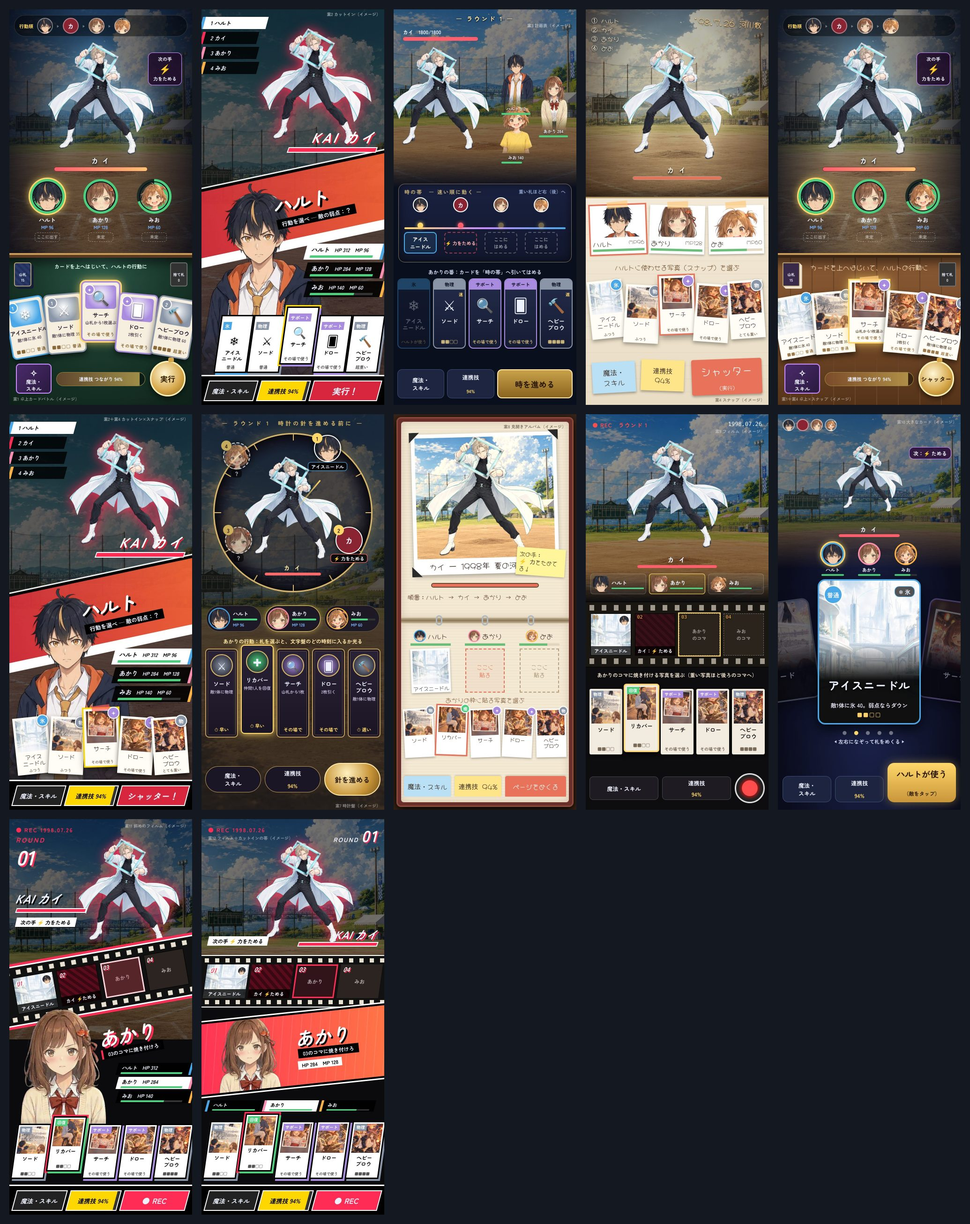
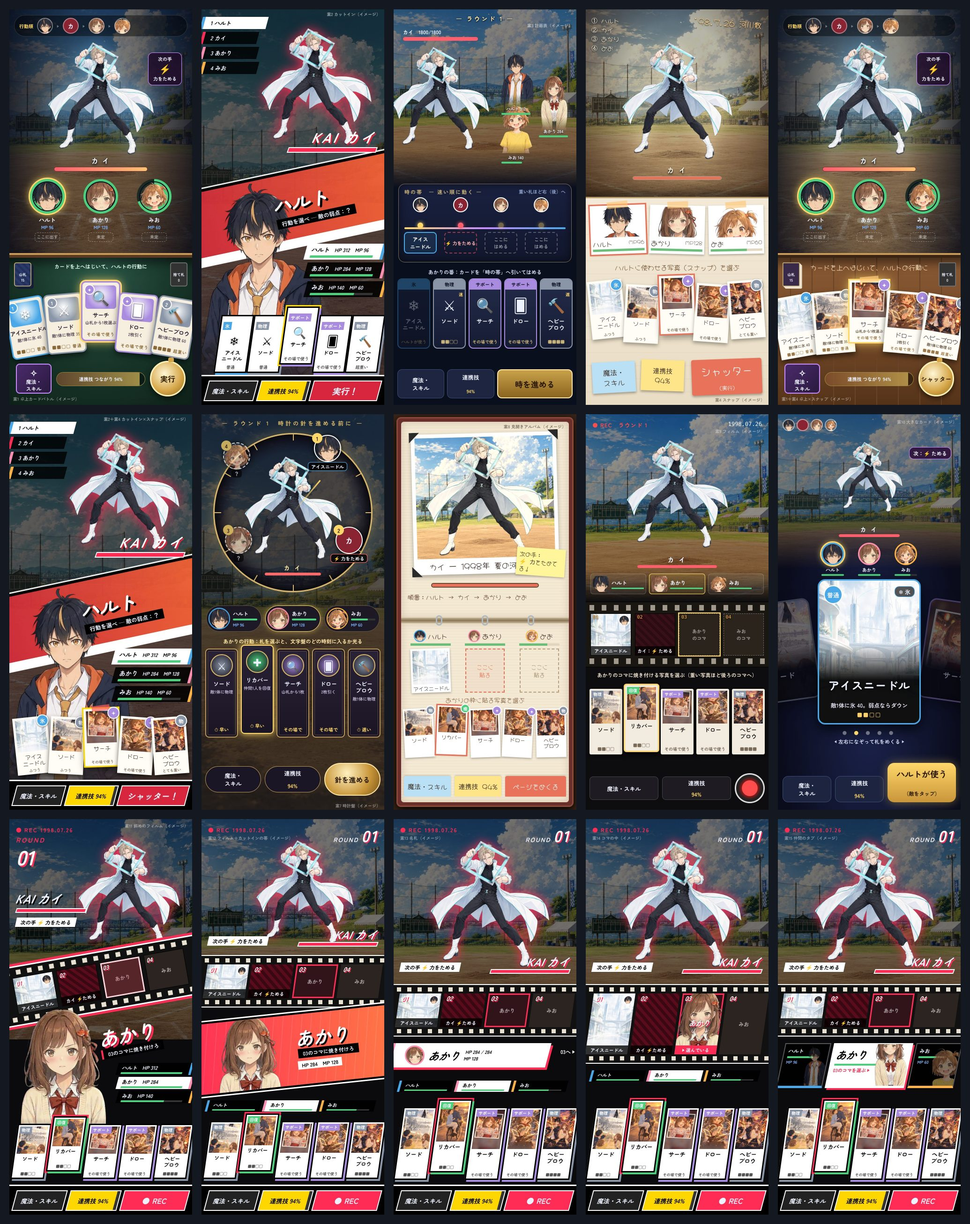
段階101：案12 をもとに、カットインの帯をなくした3案（名札・コマの中・仲間のタブ）を作る
Claude-Session: https://claude.ai/code/session_0153YXzNU9Ck5mPwNRXSpjwj

Changed region(s): [[0.4019, 0.6512, 0.9894, 0.9923]]

diff --git a/docs/sketches/battle_ui/15_film_tabs.html b/docs/sketches/battle_ui/15_film_tabs.html
@@ -1,0 +1,83 @@
+<!doctype html>
+<html lang="ja"><head><meta charset="utf-8"><link rel="stylesheet" href="common.css">
+<style>
+  body { background: #0b0b0e; }
+  .bg { inset: 0 0 auto 0; height: 420px; background: url('../../../public/assets/backgrounds/riverside_1998.webp') center 25% / cover; filter: brightness(.45) contrast(1.15) saturate(.7); }
+  .enemy { left: 70px; top: 26px; width: 270px; height: 310px; background: url('../../../public/assets/enemies/kai.webp') center / contain no-repeat; filter: drop-shadow(0 0 10px #ff2d55); }
+  .rec { left: 14px; top: 14px; font-size: 12px; color: #ff2d55; font-weight: bold; letter-spacing: 2px; } .rec::before { content: '●'; margin-right: 4px; }
+  .round { right: 14px; top: 10px; font-size: 13px; font-weight: 900; font-style: italic; letter-spacing: 2px; }
+  .round b { font-size: 34px; color: #fff; text-shadow: 2px 2px 0 #ff2d55; }
+  .ename { right: 14px; top: 286px; font-size: 24px; font-weight: 900; font-style: italic; transform: skewX(-12deg); text-shadow: 3px 3px 0 #ff2d55; }
+  .ehp { right: 14px; top: 320px; width: 170px; height: 10px; background: #000; border: 2px solid #fff; transform: skewX(-20deg); } .ehp i { display: block; height: 100%; width: 100%; background: #ff2d55; }
+  .intent { left: 14px; top: 306px; font-size: 11px; background: #fff; color: #000; padding: 2px 10px; transform: skewX(-12deg); font-weight: bold; }
+  /* 横のフィルム */
+  .film { left: 0; right: 0; top: 352px; height: 112px; background: #111; border-top: 2px solid #fff; border-bottom: 2px solid #fff; }
+  .holes { position: absolute; left: 0; right: 0; height: 9px; background: repeating-linear-gradient(90deg, transparent 0 7px, #e8e0d0 7px 16px, transparent 16px 22px); }
+  .holes.t { top: 5px; } .holes.bt { bottom: 5px; }
+  .frames { position: absolute; left: 8px; right: 8px; top: 18px; bottom: 18px; display: flex; gap: 6px; }
+  .fr { flex: 1; background: #2b2420; position: relative; overflow: hidden; transform: skewX(-8deg); }
+  .fr .ph { position: absolute; inset: 0; background-size: cover; background-position: center; }
+  .fr .lb { position: absolute; left: 0; right: 0; bottom: 0; background: #000c; font-size: 10px; text-align: center; padding: 2px 0; font-weight: bold; }
+  .fr .n { position: absolute; left: 6px; top: 0; font-size: 14px; font-weight: 900; font-style: italic; color: #fff; text-shadow: 2px 2px 0 #ff2d55; }
+  .fr .who { position: absolute; right: 4px; top: 4px; width: 20px; height: 20px; border-radius: 50%; background-size: 230%; background-position: 50% 10%; border: 2px solid #fff; }
+  .fr.foe .ph { background: repeating-linear-gradient(45deg, #5a0c1c 0 6px, #3a0812 6px 12px); }
+  .fr.now { box-shadow: inset 0 0 0 3px #ff2d55; background: #ff2d5522; }
+  .fr.empty { display: grid; place-items: center; font-size: 11px; font-weight: bold; color: #fff9; }
+  /* 斜めの帯の中のカットイン */
+  .party { left: 6px; right: 6px; top: 478px; height: 96px; display: flex; gap: 6px; }
+  .tab { flex: 1; transform: skewX(-12deg); background: #000d; border: 2px solid #ffffff55; border-bottom: 5px solid var(--c); position: relative; overflow: hidden; padding: 6px 8px; font-size: 11px; font-weight: bold; }
+  .tab .f { position: absolute; right: -4px; bottom: 0; width: 56px; height: 84px; background-size: cover; background-position: 50% 0; transform: skewX(12deg); opacity: .5; }
+  .tab .bar { height: 4px; background: #333; margin-top: 4px; width: 70%; } .tab .bar i { display: block; height: 100%; background: #4cd07d; }
+  .tab .mp { font-size: 9px; color: #7fb6ff; margin-top: 2px; }
+  .tab.on { flex: 1.9; background: #fff; color: #000; border-color: #fff; box-shadow: 4px 4px 0 #ff2d55; }
+  .tab.on .f { width: 96px; height: 120px; right: -6px; opacity: 1; }
+  .tab.on .nm { font-size: 22px; font-style: italic; font-weight: 900; }
+  .tab.on .go { font-size: 10px; color: #ff2d55; margin-top: 2px; }
+  .pa { width: 116px; height: 24px; transform: skewX(-15deg); background: #000d; border-left: 5px solid var(--c); padding: 2px 10px; font-size: 10px; font-weight: bold; }
+  .pa .bar { height: 3px; margin-top: 2px; background: #333; } .pa .bar i { display: block; height: 100%; background: #4cd07d; width: var(--hp); }
+  .pa.on { background: #fff; color: #000; }
+  /* 手札 */
+  .hand { left: 6px; right: 6px; top: 588px; height: 182px; }
+  .card { position: absolute; bottom: 0; width: 72px; height: 156px; background: #fff; color: #000; border: 3px solid #000; box-shadow: 4px 4px 0 var(--c); transform: skewX(-8deg); padding: 3px; }
+  .card .ph { height: 84px; background-size: cover; background-position: center; }
+  .card .el { position: absolute; left: 3px; top: 3px; font-size: 9px; color: #fff; background: var(--c); padding: 1px 4px; font-weight: bold; }
+  .card .nm { font-size: 12px; font-weight: 900; text-align: center; margin-top: 4px; line-height: 1.15; }
+  .card .wt { position: absolute; bottom: 3px; left: 0; right: 0; font-size: 8px; text-align: center; color: #555; }
+  .card.sel { bottom: 16px; box-shadow: 4px 4px 0 var(--c), 0 0 0 3px #ff2d55; }
+  .cmd { left: 0; right: 0; bottom: 0; height: 64px; background: #000; display: flex; align-items: center; gap: 6px; padding: 0 10px; border-top: 3px solid #fff; }
+  .btn { flex: 1; height: 44px; transform: skewX(-15deg); background: #222; border: 2px solid #fff; font-size: 13px; font-weight: bold; display: flex; align-items: center; justify-content: center; }
+  .btn.go { flex: 1.3; background: #ff2d55; font-size: 16px; }
+  .btn.go::before { content: '●'; margin-right: 6px; }
+  .btn.link { background: linear-gradient(90deg, #ffd700 94%, #333 94%); color: #000; }
+  .tag { left: 14px; top: 34px; font-size: 9px; color: #fff7; }
+</style></head><body>
+<div class="abs bg"></div>
+<div class="abs enemy"></div>
+<div class="abs rec">REC 1998.07.26</div>
+<div class="abs round">ROUND <b>01</b></div>
+<div class="abs intent">次の手 ⚡ 力をためる</div>
+<div class="abs ename">KAI カイ</div>
+<div class="abs ehp"><i></i></div>
+<div class="abs film"><div class="holes t"></div><div class="holes bt"></div>
+  <div class="frames">
+    <div class="fr"><div class="ph" style="background-image:url('../../../public/assets/cg/white_city.webp')"></div><span class="n">01</span><span class="who" style="background-image:url('../../../public/assets/portraits/hero_determined.webp')"></span><div class="lb">アイスニードル</div></div>
+    <div class="fr foe"><div class="ph"></div><span class="n">02</span><div class="lb">カイ ⚡ためる</div></div>
+    <div class="fr empty now"><span class="n">03</span>あかり</div>
+    <div class="fr empty"><span class="n">04</span>みお</div>
+  </div>
+</div>
+<div class="abs party">
+  <div class="tab" style="--c:#4aa8e8"><div class="f" style="background-image:url('../../../public/assets/portraits/hero_determined.webp')"></div>ハルト<div class="bar"><i style="width:100%"></i></div><div class="mp">MP 96</div></div>
+  <div class="tab on" style="--c:#ff8fb1"><div class="f" style="background-image:url('../../../public/assets/portraits/akari_serious.webp')"></div><div class="nm">あかり</div><div class="bar"><i style="width:100%"></i></div><div class="go">03のコマを選ぶ ▶</div></div>
+  <div class="tab" style="--c:#ffb347"><div class="f" style="background-image:url('../../../public/assets/portraits/mio_smile.webp');background-size:150%;background-position:50% 10%"></div>みお<div class="bar"><i style="width:70%"></i></div><div class="mp">MP 60</div></div>
+</div>
+<div class="abs hand">
+  <div class="card" style="--c:#8a96a8;left:4px"><div class="ph" style="background-image:url('../../../public/assets/cg/cut_ground.webp')"></div><span class="el">物理</span><div class="nm">ソード</div><div class="wt">■■□□</div></div>
+  <div class="card sel" style="--c:#4cd07d;left:80px"><div class="ph" style="background-image:url('../../../public/assets/cg/tandem_bicycle.webp')"></div><span class="el">回復</span><div class="nm">リカバー</div><div class="wt">■■□□</div></div>
+  <div class="card" style="--c:#a98be0;left:156px"><div class="ph" style="background-image:url('../../../public/assets/cg/photo_goldfish.webp')"></div><span class="el">サポート</span><div class="nm">サーチ</div><div class="wt">その場で使う</div></div>
+  <div class="card" style="--c:#a98be0;left:232px"><div class="ph" style="background-image:url('../../../public/assets/cg/mio_cards.webp')"></div><span class="el">サポート</span><div class="nm">ドロー</div><div class="wt">その場で使う</div></div>
+  <div class="card" style="--c:#8a96a8;left:308px"><div class="ph" style="background-image:url('../../../public/assets/cg/awaken_weapons.webp')"></div><span class="el">物理</span><div class="nm">ヘビー<br>ブロウ</div><div class="wt">■■■■</div></div>
+</div>
+<div class="abs cmd"><div class="btn">魔法・スキル</div><div class="btn link">連携技 94%</div><div class="btn go">REC</div></div>
+<div class="abs tag">案15 仲間のタブ（イメージ）</div>
+</body></html>

diff --git a/docs/sketches/battle_ui/13_film_plate.html b/docs/sketches/battle_ui/13_film_plate.html
@@ -1,0 +1,81 @@
+<!doctype html>
+<html lang="ja"><head><meta charset="utf-8"><link rel="stylesheet" href="common.css">
+<style>
+  body { background: #0b0b0e; }
+  .bg { inset: 0 0 auto 0; height: 420px; background: url('../../../public/assets/backgrounds/riverside_1998.webp') center 25% / cover; filter: brightness(.45) contrast(1.15) saturate(.7); }
+  .enemy { left: 70px; top: 26px; width: 270px; height: 310px; background: url('../../../public/assets/enemies/kai.webp') center / contain no-repeat; filter: drop-shadow(0 0 10px #ff2d55); }
+  .rec { left: 14px; top: 14px; font-size: 12px; color: #ff2d55; font-weight: bold; letter-spacing: 2px; } .rec::before { content: '●'; margin-right: 4px; }
+  .round { right: 14px; top: 10px; font-size: 13px; font-weight: 900; font-style: italic; letter-spacing: 2px; }
+  .round b { font-size: 34px; color: #fff; text-shadow: 2px 2px 0 #ff2d55; }
+  .ename { right: 14px; top: 286px; font-size: 24px; font-weight: 900; font-style: italic; transform: skewX(-12deg); text-shadow: 3px 3px 0 #ff2d55; }
+  .ehp { right: 14px; top: 320px; width: 170px; height: 10px; background: #000; border: 2px solid #fff; transform: skewX(-20deg); } .ehp i { display: block; height: 100%; width: 100%; background: #ff2d55; }
+  .intent { left: 14px; top: 306px; font-size: 11px; background: #fff; color: #000; padding: 2px 10px; transform: skewX(-12deg); font-weight: bold; }
+  /* 横のフィルム */
+  .film { left: 0; right: 0; top: 352px; height: 112px; background: #111; border-top: 2px solid #fff; border-bottom: 2px solid #fff; }
+  .holes { position: absolute; left: 0; right: 0; height: 9px; background: repeating-linear-gradient(90deg, transparent 0 7px, #e8e0d0 7px 16px, transparent 16px 22px); }
+  .holes.t { top: 5px; } .holes.bt { bottom: 5px; }
+  .frames { position: absolute; left: 8px; right: 8px; top: 18px; bottom: 18px; display: flex; gap: 6px; }
+  .fr { flex: 1; background: #2b2420; position: relative; overflow: hidden; transform: skewX(-8deg); }
+  .fr .ph { position: absolute; inset: 0; background-size: cover; background-position: center; }
+  .fr .lb { position: absolute; left: 0; right: 0; bottom: 0; background: #000c; font-size: 10px; text-align: center; padding: 2px 0; font-weight: bold; }
+  .fr .n { position: absolute; left: 6px; top: 0; font-size: 14px; font-weight: 900; font-style: italic; color: #fff; text-shadow: 2px 2px 0 #ff2d55; }
+  .fr .who { position: absolute; right: 4px; top: 4px; width: 20px; height: 20px; border-radius: 50%; background-size: 230%; background-position: 50% 10%; border: 2px solid #fff; }
+  .fr.foe .ph { background: repeating-linear-gradient(45deg, #5a0c1c 0 6px, #3a0812 6px 12px); }
+  .fr.now { box-shadow: inset 0 0 0 3px #ff2d55; background: #ff2d5522; }
+  .fr.empty { display: grid; place-items: center; font-size: 11px; font-weight: bold; color: #fff9; }
+  /* 斜めの帯の中のカットイン */
+  .party { left: 10px; top: 558px; display: flex; gap: 6px; }
+  .plate { left: -10px; right: 60px; top: 478px; height: 52px; background: #fff; color: #000; transform: skewX(-15deg); border-left: 8px solid #ff8fb1; box-shadow: 5px 5px 0 #ff2d55; display: flex; align-items: center; gap: 10px; padding-left: 26px; }
+  .plate .f { width: 42px; height: 42px; border-radius: 50%; background: url('../../../public/assets/portraits/akari_serious.webp') 50% 10% / 230%; border: 3px solid #ff8fb1; transform: skewX(15deg); flex: none; }
+  .plate .nm { font-size: 22px; font-weight: 900; font-style: italic; }
+  .plate .st { font-size: 10px; font-weight: bold; line-height: 1.4; }
+  .plate .go { position: absolute; right: -54px; top: 10px; transform: skewX(15deg); font-size: 11px; color: #fff; font-weight: bold; }
+  .pa { width: 116px; height: 24px; transform: skewX(-15deg); background: #000d; border-left: 5px solid var(--c); padding: 2px 10px; font-size: 10px; font-weight: bold; }
+  .pa .bar { height: 3px; margin-top: 2px; background: #333; } .pa .bar i { display: block; height: 100%; background: #4cd07d; width: var(--hp); }
+  .pa.on { background: #fff; color: #000; }
+  /* 手札 */
+  .hand { left: 6px; right: 6px; top: 588px; height: 182px; }
+  .card { position: absolute; bottom: 0; width: 72px; height: 156px; background: #fff; color: #000; border: 3px solid #000; box-shadow: 4px 4px 0 var(--c); transform: skewX(-8deg); padding: 3px; }
+  .card .ph { height: 84px; background-size: cover; background-position: center; }
+  .card .el { position: absolute; left: 3px; top: 3px; font-size: 9px; color: #fff; background: var(--c); padding: 1px 4px; font-weight: bold; }
+  .card .nm { font-size: 12px; font-weight: 900; text-align: center; margin-top: 4px; line-height: 1.15; }
+  .card .wt { position: absolute; bottom: 3px; left: 0; right: 0; font-size: 8px; text-align: center; color: #555; }
+  .card.sel { bottom: 16px; box-shadow: 4px 4px 0 var(--c), 0 0 0 3px #ff2d55; }
+  .cmd { left: 0; right: 0; bottom: 0; height: 64px; background: #000; display: flex; align-items: center; gap: 6px; padding: 0 10px; border-top: 3px solid #fff; }
+  .btn { flex: 1; height: 44px; transform: skewX(-15deg); background: #222; border: 2px solid #fff; font-size: 13px; font-weight: bold; display: flex; align-items: center; justify-content: center; }
+  .btn.go { flex: 1.3; background: #ff2d55; font-size: 16px; }
+  .btn.go::before { content: '●'; margin-right: 6px; }
+  .btn.link { background: linear-gradient(90deg, #ffd700 94%, #333 94%); color: #000; }
+  .tag { left: 14px; top: 34px; font-size: 9px; color: #fff7; }
+</style></head><body>
+<div class="abs bg"></div>
+<div class="abs enemy"></div>
+<div class="abs rec">REC 1998.07.26</div>
+<div class="abs round">ROUND <b>01</b></div>
+<div class="abs intent">次の手 ⚡ 力をためる</div>
+<div class="abs ename">KAI カイ</div>
+<div class="abs ehp"><i></i></div>
+<div class="abs film"><div class="holes t"></div><div class="holes bt"></div>
+  <div class="frames">
+    <div class="fr"><div class="ph" style="background-image:url('../../../public/assets/cg/white_city.webp')"></div><span class="n">01</span><span class="who" style="background-image:url('../../../public/assets/portraits/hero_determined.webp')"></span><div class="lb">アイスニードル</div></div>
+    <div class="fr foe"><div class="ph"></div><span class="n">02</span><div class="lb">カイ ⚡ためる</div></div>
+    <div class="fr empty now"><span class="n">03</span>あかり</div>
+    <div class="fr empty"><span class="n">04</span>みお</div>
+  </div>
+</div>
+<div class="abs plate"><div class="f"></div><div class="nm">あかり</div><div class="st">HP 284 / 284<br>MP 128</div><span class="go">03へ ▶</span></div>
+<div class="abs party">
+  <div class="pa" style="--c:#4aa8e8;--hp:100%">ハルト<div class="bar"><i></i></div></div>
+  <div class="pa on" style="--c:#ff8fb1;--hp:100%">あかり<div class="bar"><i></i></div></div>
+  <div class="pa" style="--c:#ffb347;--hp:70%">みお<div class="bar"><i></i></div></div>
+</div>
+<div class="abs hand">
+  <div class="card" style="--c:#8a96a8;left:4px"><div class="ph" style="background-image:url('../../../public/assets/cg/cut_ground.webp')"></div><span class="el">物理</span><div class="nm">ソード</div><div class="wt">■■□□</div></div>
+  <div class="card sel" style="--c:#4cd07d;left:80px"><div class="ph" style="background-image:url('../../../public/assets/cg/tandem_bicycle.webp')"></div><span class="el">回復</span><div class="nm">リカバー</div><div class="wt">■■□□</div></div>
+  <div class="card" style="--c:#a98be0;left:156px"><div class="ph" style="background-image:url('../../../public/assets/cg/photo_goldfish.webp')"></div><span class="el">サポート</span><div class="nm">サーチ</div><div class="wt">その場で使う</div></div>
+  <div class="card" style="--c:#a98be0;left:232px"><div class="ph" style="background-image:url('../../../public/assets/cg/mio_cards.webp')"></div><span class="el">サポート</span><div class="nm">ドロー</div><div class="wt">その場で使う</div></div>
+  <div class="card" style="--c:#8a96a8;left:308px"><div class="ph" style="background-image:url('../../../public/assets/cg/awaken_weapons.webp')"></div><span class="el">物理</span><div class="nm">ヘビー<br>ブロウ</div><div class="wt">■■■■</div></div>
+</div>
+<div class="abs cmd"><div class="btn">魔法・スキル</div><div class="btn link">連携技 94%</div><div class="btn go">REC</div></div>
+<div class="abs tag">案13 名札（イメージ）</div>
+</body></html>

diff --git a/docs/sketches/battle_ui/14_film_frame.html b/docs/sketches/battle_ui/14_film_frame.html
@@ -1,0 +1,78 @@
+<!doctype html>
+<html lang="ja"><head><meta charset="utf-8"><link rel="stylesheet" href="common.css">
+<style>
+  body { background: #0b0b0e; }
+  .bg { inset: 0 0 auto 0; height: 420px; background: url('../../../public/assets/backgrounds/riverside_1998.webp') center 25% / cover; filter: brightness(.45) contrast(1.15) saturate(.7); }
+  .enemy { left: 70px; top: 26px; width: 270px; height: 310px; background: url('../../../public/assets/enemies/kai.webp') center / contain no-repeat; filter: drop-shadow(0 0 10px #ff2d55); }
+  .rec { left: 14px; top: 14px; font-size: 12px; color: #ff2d55; font-weight: bold; letter-spacing: 2px; } .rec::before { content: '●'; margin-right: 4px; }
+  .round { right: 14px; top: 10px; font-size: 13px; font-weight: 900; font-style: italic; letter-spacing: 2px; }
+  .round b { font-size: 34px; color: #fff; text-shadow: 2px 2px 0 #ff2d55; }
+  .ename { right: 14px; top: 286px; font-size: 24px; font-weight: 900; font-style: italic; transform: skewX(-12deg); text-shadow: 3px 3px 0 #ff2d55; }
+  .ehp { right: 14px; top: 320px; width: 170px; height: 10px; background: #000; border: 2px solid #fff; transform: skewX(-20deg); } .ehp i { display: block; height: 100%; width: 100%; background: #ff2d55; }
+  .intent { left: 14px; top: 306px; font-size: 11px; background: #fff; color: #000; padding: 2px 10px; transform: skewX(-12deg); font-weight: bold; }
+  /* 横のフィルム */
+  .film { left: 0; right: 0; top: 352px; height: 170px; background: #111; border-top: 2px solid #fff; border-bottom: 2px solid #fff; }
+  .holes { position: absolute; left: 0; right: 0; height: 9px; background: repeating-linear-gradient(90deg, transparent 0 7px, #e8e0d0 7px 16px, transparent 16px 22px); }
+  .holes.t { top: 5px; } .holes.bt { bottom: 5px; }
+  .frames { position: absolute; left: 8px; right: 8px; top: 18px; bottom: 18px; display: flex; gap: 6px; }
+  .fr { flex: 1; background: #2b2420; position: relative; overflow: hidden; transform: skewX(-8deg); }
+  .fr .ph { position: absolute; inset: 0; background-size: cover; background-position: center; }
+  .fr .lb { position: absolute; left: 0; right: 0; bottom: 0; background: #000c; font-size: 10px; text-align: center; padding: 2px 0; font-weight: bold; }
+  .fr .n { position: absolute; left: 6px; top: 0; font-size: 14px; font-weight: 900; font-style: italic; color: #fff; text-shadow: 2px 2px 0 #ff2d55; }
+  .fr .who { position: absolute; right: 4px; top: 4px; width: 20px; height: 20px; border-radius: 50%; background-size: 230%; background-position: 50% 10%; border: 2px solid #fff; }
+  .fr.foe .ph { background: repeating-linear-gradient(45deg, #5a0c1c 0 6px, #3a0812 6px 12px); }
+  .fr.now { box-shadow: inset 0 0 0 3px #ff2d55; background: #ff2d5522; }
+  .fr.empty { display: grid; place-items: center; font-size: 11px; font-weight: bold; color: #fff9; }
+  /* 斜めの帯の中のカットイン */
+  .party { left: 10px; top: 536px; display: flex; gap: 6px; }
+  .fr .face { position: absolute; inset: 0; background: url('../../../public/assets/portraits/akari_serious.webp') 50% 12% / 170%; }
+  .fr .sel { position: absolute; left: 0; right: 0; top: 40%; text-align: center; font-size: 15px; font-weight: 900; font-style: italic; color: #fff; text-shadow: 2px 2px 0 #ff2d55, 0 0 6px #000; }
+  .fr .hpm { position: absolute; left: 0; right: 0; bottom: 0; background: #ff2d55; font-size: 10px; text-align: center; font-weight: bold; padding: 2px 0; }
+  .pa { width: 116px; height: 24px; transform: skewX(-15deg); background: #000d; border-left: 5px solid var(--c); padding: 2px 10px; font-size: 10px; font-weight: bold; }
+  .pa .bar { height: 3px; margin-top: 2px; background: #333; } .pa .bar i { display: block; height: 100%; background: #4cd07d; width: var(--hp); }
+  .pa.on { background: #fff; color: #000; }
+  /* 手札 */
+  .hand { left: 6px; right: 6px; top: 594px; height: 176px; }
+  .card { position: absolute; bottom: 0; width: 72px; height: 156px; background: #fff; color: #000; border: 3px solid #000; box-shadow: 4px 4px 0 var(--c); transform: skewX(-8deg); padding: 3px; }
+  .card .ph { height: 84px; background-size: cover; background-position: center; }
+  .card .el { position: absolute; left: 3px; top: 3px; font-size: 9px; color: #fff; background: var(--c); padding: 1px 4px; font-weight: bold; }
+  .card .nm { font-size: 12px; font-weight: 900; text-align: center; margin-top: 4px; line-height: 1.15; }
+  .card .wt { position: absolute; bottom: 3px; left: 0; right: 0; font-size: 8px; text-align: center; color: #555; }
+  .card.sel { bottom: 16px; box-shadow: 4px 4px 0 var(--c), 0 0 0 3px #ff2d55; }
+  .cmd { left: 0; right: 0; bottom: 0; height: 64px; background: #000; display: flex; align-items: center; gap: 6px; padding: 0 10px; border-top: 3px solid #fff; }
+  .btn { flex: 1; height: 44px; transform: skewX(-15deg); background: #222; border: 2px solid #fff; font-size: 13px; font-weight: bold; display: flex; align-items: center; justify-content: center; }
+  .btn.go { flex: 1.3; background: #ff2d55; font-size: 16px; }
+  .btn.go::before { content: '●'; margin-right: 6px; }
+  .btn.link { background: linear-gradient(90deg, #ffd700 94%, #333 94%); color: #000; }
+  .tag { left: 14px; top: 34px; font-size: 9px; color: #fff7; }
+</style></head><body>
+<div class="abs bg"></div>
+<div class="abs enemy"></div>
+<div class="abs rec">REC 1998.07.26</div>
+<div class="abs round">ROUND <b>01</b></div>
+<div class="abs intent">次の手 ⚡ 力をためる</div>
+<div class="abs ename">KAI カイ</div>
+<div class="abs ehp"><i></i></div>
+<div class="abs film"><div class="holes t"></div><div class="holes bt"></div>
+  <div class="frames">
+    <div class="fr"><div class="ph" style="background-image:url('../../../public/assets/cg/white_city.webp')"></div><span class="n">01</span><span class="who" style="background-image:url('../../../public/assets/portraits/hero_determined.webp')"></span><div class="lb">アイスニードル</div></div>
+    <div class="fr foe"><div class="ph"></div><span class="n">02</span><div class="lb">カイ ⚡ためる</div></div>
+    <div class="fr now"><div class="face"></div><span class="n">03</span><div class="sel">あかり</div><div class="hpm">▶ 選んでいる</div></div>
+    <div class="fr empty"><span class="n">04</span>みお</div>
+  </div>
+</div>
+<div class="abs party">
+  <div class="pa" style="--c:#4aa8e8;--hp:100%">ハルト<div class="bar"><i></i></div></div>
+  <div class="pa on" style="--c:#ff8fb1;--hp:100%">あかり<div class="bar"><i></i></div></div>
+  <div class="pa" style="--c:#ffb347;--hp:70%">みお<div class="bar"><i></i></div></div>
+</div>
+<div class="abs hand">
+  <div class="card" style="--c:#8a96a8;left:4px"><div class="ph" style="background-image:url('../../../public/assets/cg/cut_ground.webp')"></div><span class="el">物理</span><div class="nm">ソード</div><div class="wt">■■□□</div></div>
+  <div class="card sel" style="--c:#4cd07d;left:80px"><div class="ph" style="background-image:url('../../../public/assets/cg/tandem_bicycle.webp')"></div><span class="el">回復</span><div class="nm">リカバー</div><div class="wt">■■□□</div></div>
+  <div class="card" style="--c:#a98be0;left:156px"><div class="ph" style="background-image:url('../../../public/assets/cg/photo_goldfish.webp')"></div><span class="el">サポート</span><div class="nm">サーチ</div><div class="wt">その場で使う</div></div>
+  <div class="card" style="--c:#a98be0;left:232px"><div class="ph" style="background-image:url('../../../public/assets/cg/mio_cards.webp')"></div><span class="el">サポート</span><div class="nm">ドロー</div><div class="wt">その場で使う</div></div>
+  <div class="card" style="--c:#8a96a8;left:308px"><div class="ph" style="background-image:url('../../../public/assets/cg/awaken_weapons.webp')"></div><span class="el">物理</span><div class="nm">ヘビー<br>ブロウ</div><div class="wt">■■■■</div></div>
+</div>
+<div class="abs cmd"><div class="btn">魔法・スキル</div><div class="btn link">連携技 94%</div><div class="btn go">REC</div></div>
+<div class="abs tag">案14 コマの中（イメージ）</div>
+</body></html>

diff --git a/docs/milestones/M3.md b/docs/milestones/M3.md
@@ -49,7 +49,7 @@
 | 100. 育成の「おすすめ」 | 開発者が「次の段階進めてください」と言った（2026-10-22）。レビューの E1。取り消せる操作は「おまかせ」で組み、取り消せない操作（星を開ける・素材を吸わせる）は「おすすめ」の印を出すだけにする（勝手に星の砂や素材を使わない）。選び方はすべて `src/core/recommend.ts`（自動対戦の `src/sim` も同じ関数を使う。育ち具合の見本が前と同じになることを確かめた）。数値は `src/data`。①アルバム：「おまかせ」で、持っているスナップから20枚を決まった順（`ALBUM_RECOMMEND`）で組む。②星図：今の仲間の「おすすめの道」を金色の点線で光らせ、次の星に「おすすめ」。まだ開けていない星を、価値（魔法・スキル＞大きな能力値＞能力値、自分の星座なら1.5倍）÷そこまでの星の砂で比べる。説明に「おすすめ：○○（金の道・あと n pt）」と「おすすめを選ぶ」。③ムーブメント：「おまかせ」（2回押す）で、並びの仲間の盤のギアを、狂いなし・効果ギアはブリッジに乗せて並べ直す。④武器：一番近い進化先の足りない能力値を上げる素材に★、一番よい素材は金の枠で先頭に。これから使う進化の鍵は、要る数より多く持っている分だけ勧める（前の★は鍵の素材にも付いていた）。説明の窓（星図・ムーブメント・アルバム）にも、おすすめの使い方を書き足した。減らせる仕組みと、1章で触る仕組みの見直しは、`docs/milestones/M3_review.md` の E1 に表で書いた（減らす候補は、時分解・欠片を枠が埋まるまで出さない案と、ギアの傾向を外す案。開発者の確認待ち） | スマホで：探索のチェックポイントの星図で、金色の点線の道と「おすすめ」の字、説明の「おすすめを選ぶ」を見る。アルバムの「おまかせ」、ムーブメントの「おまかせ」（2回押す）、武器の素材の★と金の枠を見る | 作った（確認待ち） |
 | 100b. 育成のおすすめの手直しと、盤の伸び方 | 開発者が段階100 を見て決めた（2026-10-22）。①武器の素材は★と金の枠だけにし、「★おすすめ：○○」の文は出さない（元の短い案内に戻す）。②ムーブメントの「おまかせ」は外す（並べ方を考えるのが遊びの中心のため）。説明の窓の「おまかせ」の一文も消す。並べる関数は自動対戦で使うので残す。③進化で盤が伸びる形を直す。今はどちらの型も1マス幅の「しっぽ」（ブリッジの下に縦、右下から横）で、伸びた所にはまっすぐなギアしか入らない。増えるのは今と同じ1回2マスのまま、ブリッジが伸びる型は盤のすぐ下の新しい行を、ブリッジの真下から近い順に2マスずつ埋め、盤が広がる型は盤のすぐ右の新しい列を上から2マスずつ埋める（行・列がそろうと次の行・列へ）。今のセーブで消えるマスにはまっていたギアは、読む時に外れて一覧に戻る（今の作りのまま）。測り直した（ぬしの勝率は盤の形の影響を受けない。`docs/design/battle.md` の 13.） | スマホで：育ち具合「ふつう」で 2-2 へ飛び、ハルトのムーブメントの盤が、下に1行ほど広がった四角に近い形になっているかを見る。武器の素材に★と金の枠だけが出て、下の文が元の案内になっているかを見る | 作った（確認待ち） |
 | 100c. 時分解と記憶の欠片を、枠が埋まるまで出さない | 開発者が段階100 の見直しの「減らす候補1」を「提案通りで」と決めた（2026-10-23）。開発者が「次の段階進めてください」と言った。1章の終わりでも吸わせ枠に空きがあり、時分解を使う理由がないため。武器の画面の「時分解」のボタンは、どれかの武器の吸わせ枠が初めていっぱいになった時か、交換所を初めて開いた時の、早い方まで出さない（一度出たら、物語の変数 `武器:時分解` に覚えて、ずっと出す。レベルが上がって枠が空いても隠さない）。交換所のきっかけは開発者の指摘で足した（2章の初めから開ける交換所の会話が時分解を知っている前提だった。素材をあまり吸わせない人は時分解がいつまでも出ず、欠片で払う交換所が使えなかった）。ペトラの最初の会話は、あかりが欠片の手に入れ方を聞き、ペトラが時分解を教える形に書き換えた。「欠片」のタブは、時分解が出るまでは、欠片を持っている時だけ出す（時間を返した時にもらう欠片が見えなくならないように）。素材の長押しの「時分解すると」の行も同じ。説明の窓「武器」から時分解の一文を外し、時分解が出た時に新しい説明「時分解と記憶の欠片」を出す | スマホで：はじめから進め、1章の武器の画面に「時分解」のボタンがないのを見る。デバッグで育ち具合「ふつう」の 3-1 へ飛び、武器の画面に「時分解」と説明の窓が出るのを見る。2章の昼に時計屋の奥（レストピア）の交換所を初めて開くと、ペトラが時分解を教え、説明の窓が出るのを見る | 作った（確認待ち） |
-| 101. 戦闘の画面の見本（3案と、見直しのイメージ4案） | 開発者が「次の段階進めてください」と言った（2026-10-23）。レビューの F2。見本は本物の戦闘の画面に切り替えのしかけを入れて撮る（`?debug=1&battleUi=a`・`b`・`c`。付けなければ今のまま。スマホでも触って比べられる）。どの案も、サポートの札の「行動枠なし」を「その場で使う」に替える（「行動を使わない」は札の幅に収まらなかった。計画の途中でその場で使う札なので）。**案A「言葉と字」**：並びは今のまま。手札の名前の字を大きく（12→14）、コンボの帯は、そろいそうなコンボがない時は字を出さず細い線だけにする。**案B「使える時だけ出す」**：コンボの帯は、そろいそうな時だけ出す（ない時は、その分だけ手札を高くする）。バトンタッチのボタンは追加行動の時だけ出し、ふだんは「魔法・スキル」「連携技」「その他」の3つ。手札の名前の字は14。**案C「手札を主役に」**：案B に加え、下のボタンの段を低く（110→70）して、空いた分だけ手札を大きくする（名前の字は16）。撮ったのはカイ戦（2-3）の、計画の始めと手札を1枚選んだ所。**見直しのイメージ（2026-10-23 追加）**：開発者が「今の画面は味気なく、カードゲーム×RPG の感じがない。作り込まなくていいので、抜本的な見直しをイメージ画像で比べたい」と言った。本物の立ち絵・敵・背景・一枚絵を使った HTML のイメージを4案作った（`docs/sketches/battle_ui/`。`node docs/sketches/battle_ui/shoot.mjs` で撮り直す。ゲームの中では使わない）。①卓上カードバトル（緑の卓に扇形の手札、枠と絵柄のあるカード、懐中時計の「実行」）、②カットイン（行動中の仲間の立ち絵を大きく、斜めの帯）、③計画表（敵と仲間を横向きに並べ、「時の帯」の枠に行動順でカードをはめる。実行は「時を進める」）、④スナップ（札を思い出の写真に。インスタント写真・手書きの字・付せんのボタン、実行は「シャッター」）。開発者が「いい感じ」と言い、組み合わせの⑤卓上×スナップ（案1 の卓と扇の手札に、写真のカード。卓は木の机）と⑥カットイン×スナップ（案2 に写真のカード）も作った。開発者が「もう少しバリエーションを」と言い、⑦時計盤（敵を囲む文字盤の時刻に行動を置く。実行は「針を進める」）、⑧見開きアルバム（上のページに敵の写真、下のページの仲間ごとの枠に写真を貼る）、⑨フィルム（行動順をフィルムのコマにし、写真を焼き付ける）、⑩大きなカード（真ん中の1枚を大きく見せ、左右になぞってめくる）も作った。見比べは `compare.jpg`（1行に5案）。開発者が「案9 のフィルムはいい。そこに案2 のスタイリッシュさも入れたい」と言い、⑪斜めのフィルム（フィルムの帯を斜めに走らせ、下に選んでいる仲間のカットイン。赤・黒・白、実行は「REC」）と⑫フィルム＋カットインの帯（フィルムは横、選んでいる仲間を斜めの帯の中に大きく）を作った。開発者が選んだ案を段階102 で作り、ほかの案のしかけは外す | スマホで：`?debug=1&battleUi=a`（b・c）を付けて開き、デバッグで 2-3 のカイ戦へ飛んで、3案を見比べる | 見本を撮った（開発者が選ぶのを待つ） |
+| 101. 戦闘の画面の見本（3案と、見直しのイメージ4案） | 開発者が「次の段階進めてください」と言った（2026-10-23）。レビューの F2。見本は本物の戦闘の画面に切り替えのしかけを入れて撮る（`?debug=1&battleUi=a`・`b`・`c`。付けなければ今のまま。スマホでも触って比べられる）。どの案も、サポートの札の「行動枠なし」を「その場で使う」に替える（「行動を使わない」は札の幅に収まらなかった。計画の途中でその場で使う札なので）。**案A「言葉と字」**：並びは今のまま。手札の名前の字を大きく（12→14）、コンボの帯は、そろいそうなコンボがない時は字を出さず細い線だけにする。**案B「使える時だけ出す」**：コンボの帯は、そろいそうな時だけ出す（ない時は、その分だけ手札を高くする）。バトンタッチのボタンは追加行動の時だけ出し、ふだんは「魔法・スキル」「連携技」「その他」の3つ。手札の名前の字は14。**案C「手札を主役に」**：案B に加え、下のボタンの段を低く（110→70）して、空いた分だけ手札を大きくする（名前の字は16）。撮ったのはカイ戦（2-3）の、計画の始めと手札を1枚選んだ所。**見直しのイメージ（2026-10-23 追加）**：開発者が「今の画面は味気なく、カードゲーム×RPG の感じがない。作り込まなくていいので、抜本的な見直しをイメージ画像で比べたい」と言った。本物の立ち絵・敵・背景・一枚絵を使った HTML のイメージを4案作った（`docs/sketches/battle_ui/`。`node docs/sketches/battle_ui/shoot.mjs` で撮り直す。ゲームの中では使わない）。①卓上カードバトル（緑の卓に扇形の手札、枠と絵柄のあるカード、懐中時計の「実行」）、②カットイン（行動中の仲間の立ち絵を大きく、斜めの帯）、③計画表（敵と仲間を横向きに並べ、「時の帯」の枠に行動順でカードをはめる。実行は「時を進める」）、④スナップ（札を思い出の写真に。インスタント写真・手書きの字・付せんのボタン、実行は「シャッター」）。開発者が「いい感じ」と言い、組み合わせの⑤卓上×スナップ（案1 の卓と扇の手札に、写真のカード。卓は木の机）と⑥カットイン×スナップ（案2 に写真のカード）も作った。開発者が「もう少しバリエーションを」と言い、⑦時計盤（敵を囲む文字盤の時刻に行動を置く。実行は「針を進める」）、⑧見開きアルバム（上のページに敵の写真、下のページの仲間ごとの枠に写真を貼る）、⑨フィルム（行動順をフィルムのコマにし、写真を焼き付ける）、⑩大きなカード（真ん中の1枚を大きく見せ、左右になぞってめくる）も作った。見比べは `compare.jpg`（1行に5案）。開発者が「案9 のフィルムはいい。そこに案2 のスタイリッシュさも入れたい」と言い、⑪斜めのフィルム（フィルムの帯を斜めに走らせ、下に選んでいる仲間のカットイン。赤・黒・白、実行は「REC」）と⑫フィルム＋カットインの帯（フィルムは横、選んでいる仲間を斜めの帯の中に大きく）を作った。開発者が「案12 がもとで、カットインは場所を取りすぎ（戦闘中のカットインもあるため）」と言い、カットインの帯をなくして敵と手札を大きくした3案を作った：⑬名札（手札の上に細い斜めの名札を1本）、⑭コマの中（フィルムの今の番のコマに顔を入れる）、⑮仲間のタブ（仲間3人の斜めのタブ、今の番の人だけ広げて顔を見せる）。開発者が選んだ案を段階102 で作り、ほかの案のしかけは外す | スマホで：`?debug=1&battleUi=a`（b・c）を付けて開き、デバッグで 2-3 のカイ戦へ飛んで、3案を見比べる | 見本を撮った（開発者が選ぶのを待つ） |
 | 102. 戦闘の画面を選んだ案で作る（たたき台） | 段階101 で開発者が選んだ案を、いつもの画面にする。見本の切り替えのしかけは外す | ― | まだ |
 | 103. 2章の手直し：取り返すまでを1日延ばす（たたき台） | レビューの A4。19日目を「手が出せない日」に、取り返すのは20日目、こうじが試合へ行くのは21日目。3章の日の数字も1つずつずれる。セーブの引き継ぎ（`RENAMED_EVENTS`）とデバッグの飛び先も合わせる | ― | まだ |
 | 104. 絵のない部屋の仮の見た目（たたき台） | レビューの F1。文字の地図に、時代の色と小物を重ねる（`docs/ART.md` の 5-5b） | ― | まだ |
